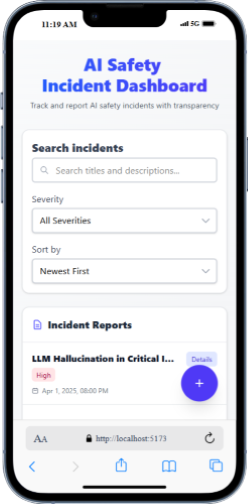
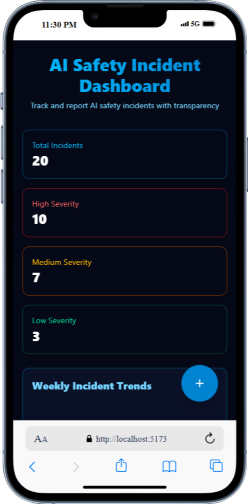
Cganged screen shots

diff --git a/src/App.tsx b/src/App.tsx
@@ -1,4 +1,4 @@
-import React, { useState, useRef, useEffect } from "react";
+import { useState, useRef, useEffect } from "react";
 import { motion, AnimatePresence } from "framer-motion";
 import IncidentFilter from "./components/IncidentFilter";
 import IncidentList from "./components/IncidentList";
@@ -76,8 +76,6 @@ export default function App() {
 
 					<IncidentTrendChart /> {/* Shows the weekly trends */}
 
-					{/* <IncidentFilter /> */}
-					{/* <IncidentList /> */}
 				</div>
 
 				<AnimatePresence>

diff --git a/README.md b/README.md
@@ -53,17 +53,18 @@ A responsive web application for tracking and reporting AI safety incidents with
 
 ### Mobile Phones
 
-| ![Mobile Phone 1](./screenshots/iphone1.png) | ![Mobile Phone 2](./screenshots/iphone2.png) | ![Mobile Phone 3](./screenshots/iphone3.png) |
-| :------------------------------------------: | :------------------------------------------: | :------------------------------------------: |
+| ![Mobile Phone 1](./screenshots/iphone1.png) | ![Mobile Phone 2](./screenshots/iphone2.png) | ![Mobile Phone 3](./screenshots/iphone3.png) | ![Mobile Phone 3](./screenshots/iphone4.png) |
+| :------------------------------------------: | :------------------------------------------: | :------------------------------------------: | :------------------------------------------: |
 
 ### Laptops
 
-![Laptop 1](./screenshots/mac.png)
+| ![Mobile Phone 1](./screenshots/mac1.png) | ![Mobile Phone 2](./screenshots/mac2.png) | ![Mobile Phone 3](./screenshots/mac3.png) |
+| :------------------------------------------: | :------------------------------------------: | :------------------------------------------: |e
 
 ### Tablets
 
-| ![Tablet 1](./screenshots/pad1.png) | ![Tablet 2](./screenshots/pad2.png) |
-| :---------------------------------: | :---------------------------------: |
+| ![Mobile Phone 1](./screenshots/tab1.png) | ![Mobile Phone 2](./screenshots/tab2.png) | ![Mobile Phone 3](./screenshots/tab3.png) |
+| :------------------------------------------: | :------------------------------------------: | :------------------------------------------: |
 
 ---
 
